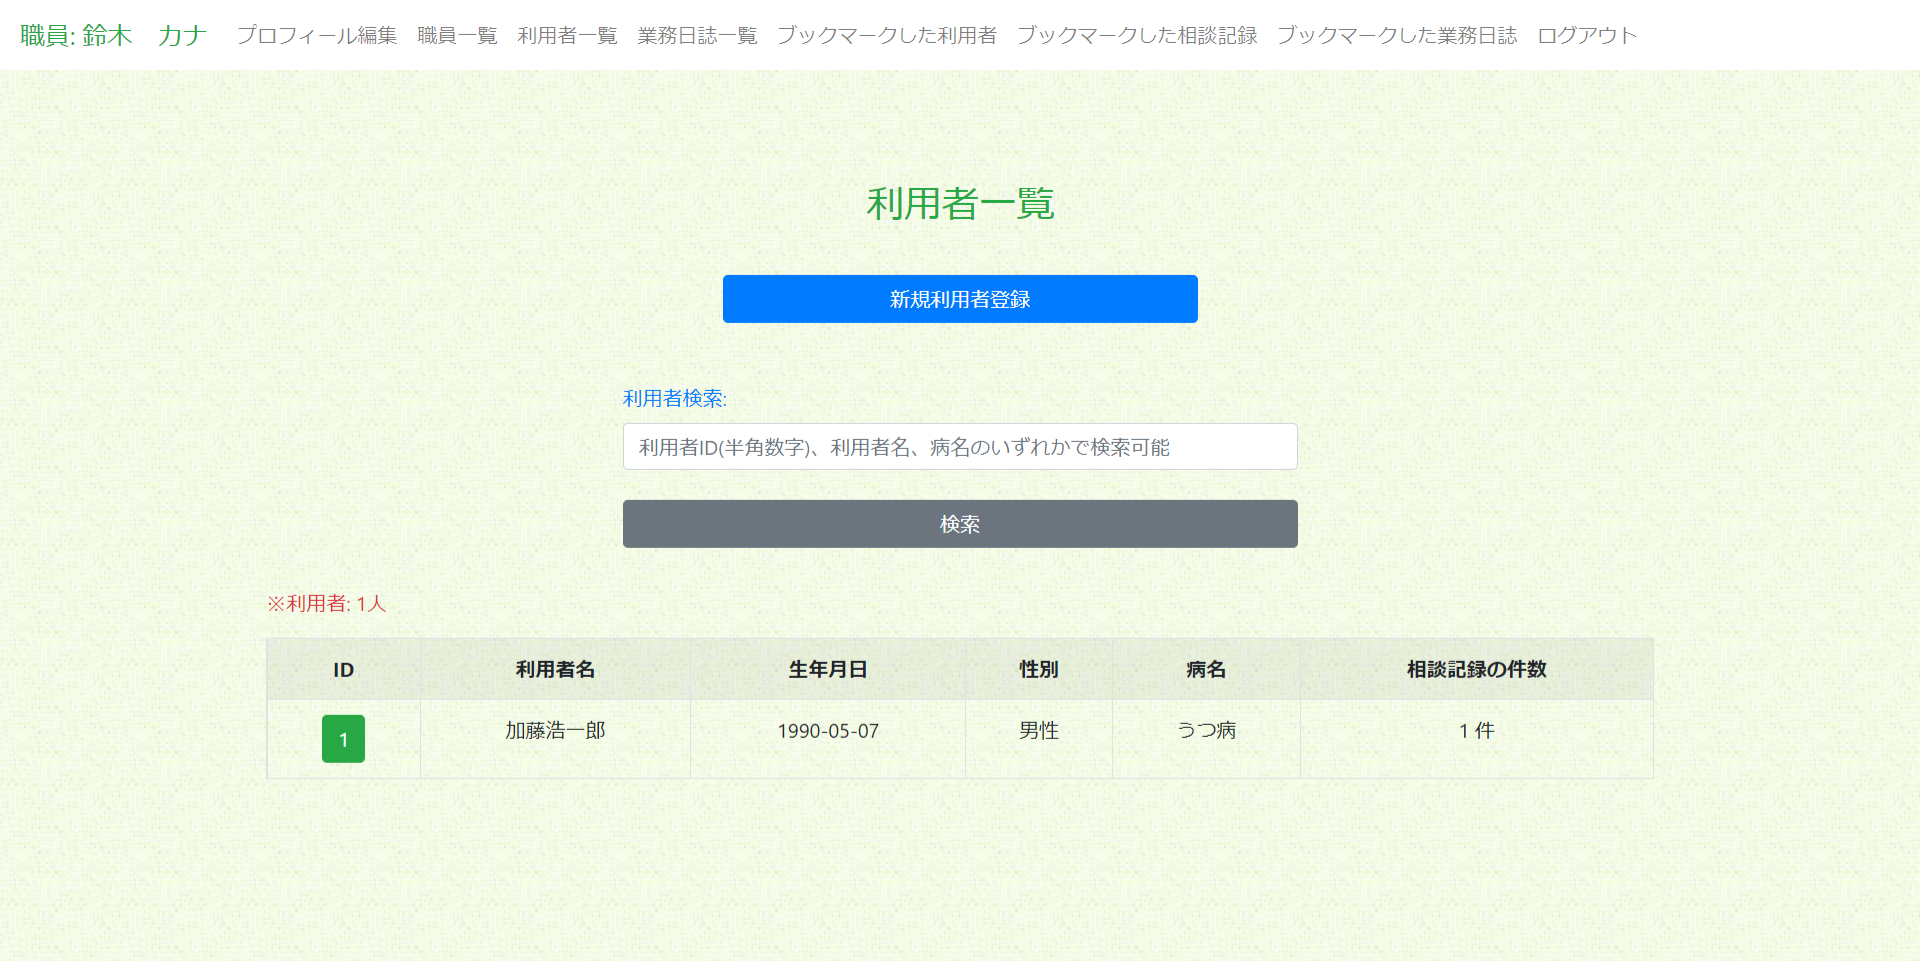
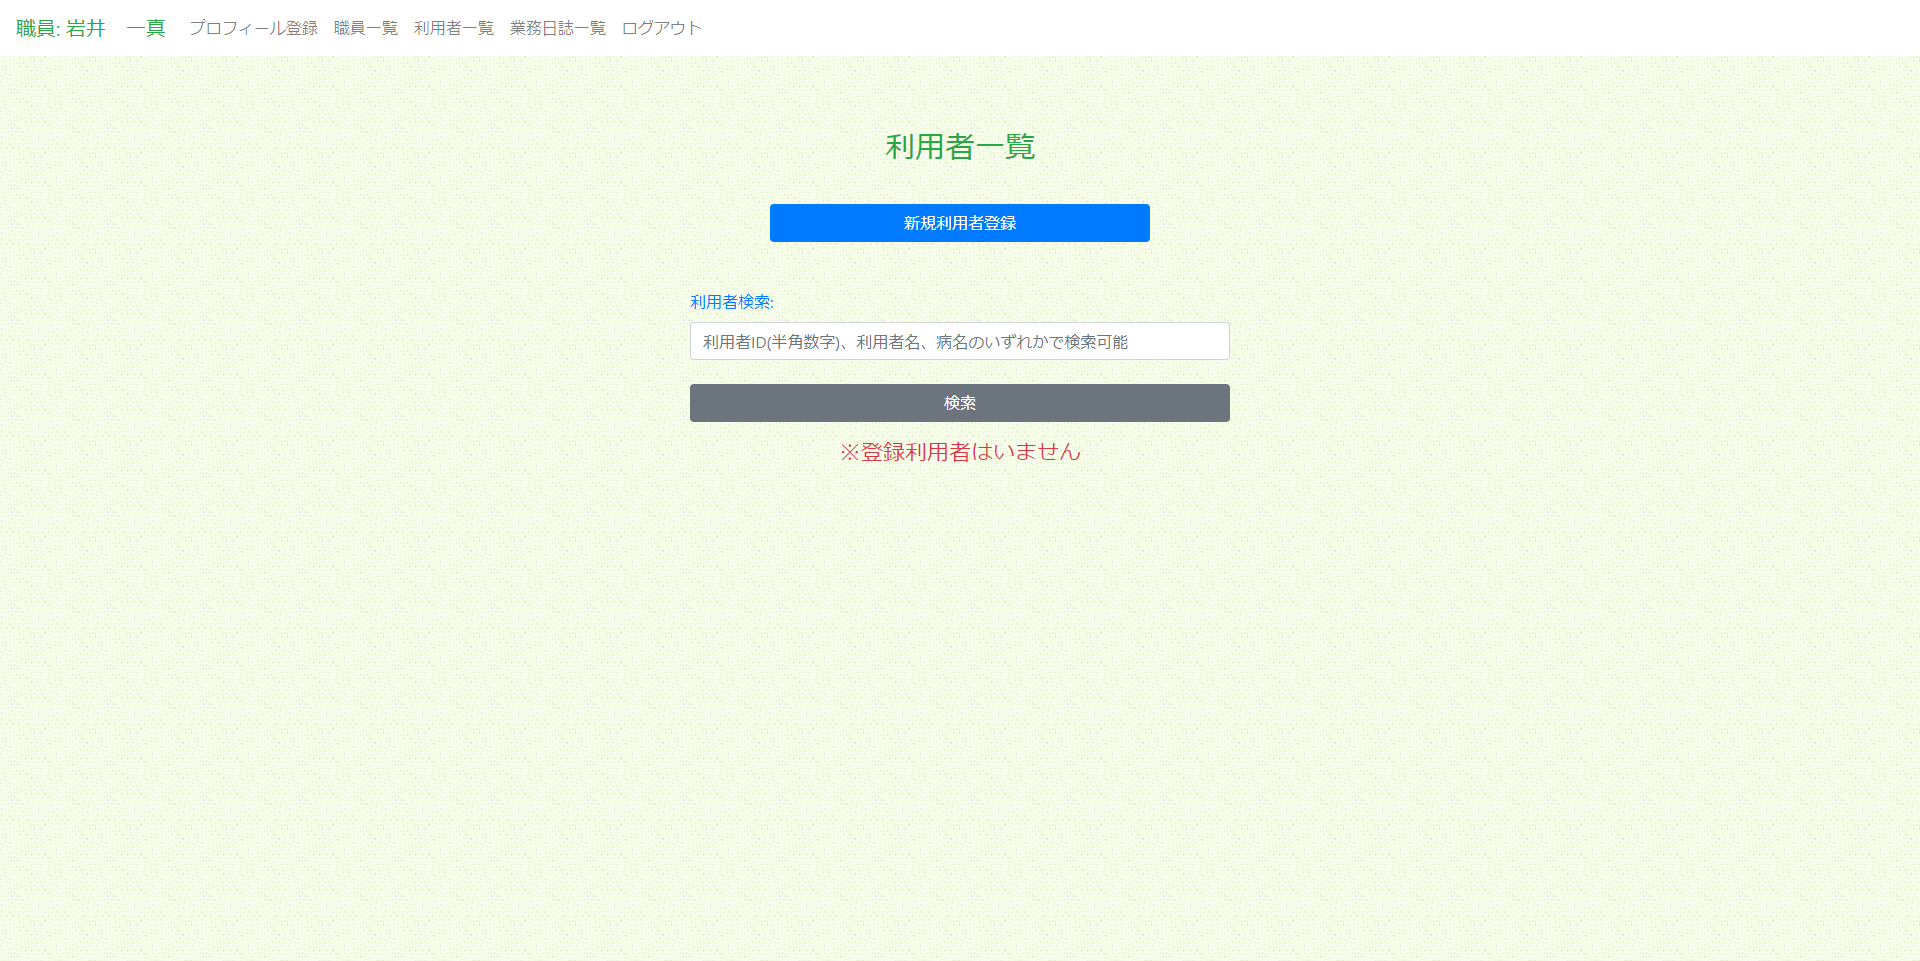
紹介文ブラッシュアップ、まだデーターベース図は作成中

diff --git a/readme.md b/readme.md
@@ -1,19 +1,17 @@
 # 精神障害者向けの相談記録アプリ
 
 ## 1. このアプリの概要
-このアプリは、私が精神保健福祉士として精神科病院、地域の就労支援事業所や地域活動支援センターで勤務した経験を踏まえて構想し、
-開発した精神障害者の地域での相談支援を想定したアプリです。具体的には、事務作業(日々の相談記録作成など)を効率化し、業務の生産性を高め、
-現場の職員が人の力でしかできない仕事(利用者の支援に関する会議、自己研鑽のための研修・出張への積極的な参加など)に注力できるようにするためのものです。
-アプリの内容としては、現場の職員がこのアプリにログインし、日々新たに関わる利用者を登録し、面談や関係機関(精神科病院、役所の生活保護担当、
-ヘルパーなど)とのケース会議などの記録を書いて登録していく流れになっています。また、日々の業務を記録する業務日誌のコンテンツもあります。
-これらの一連の業務を重ねる中で、日々データが増えていくため、データを迅速に見つけて記録と確認ができるようにするため、
-利用者、相談記録、業務日誌に検索機能、ブックマーク機能を付けております。
-相談記録については、職員同士で相談した支援の方向性や自分用メモのために、コメントを記入できる機能も用意しております。
+これは、私が精神保健福祉士として、精神科病院、地域の就労支援事業所や地域活動支援センターで勤務した経験を踏まえて開発した相談記録アプリです。
+このアプリは、精神障害者の地域での相談支援を行う現場の職員が使うことを想定しています。
+このアプリの目的は、事務作業(日々の相談記録作成など)を効率化し、業務の生産性を高め、利用者の情報共有を円滑化し、現場の職員が人の力でしかできない仕事(利用者の支援に関する会議、自己研鑽のための研修・出張への積極的な参加など)に注力できるようにするためのものです。
+アプリの使い方としては、現場の職員がこのアプリにログインし、日々新たに関わる利用者を登録し、面談や関係機関(精神科病院、役所の生活保護担当、ヘルパーなど)とのケース会議などの記録を書いて登録していくという流れになっています。
+また、日々の業務を記録する業務日誌のコンテンツもあります。
+これらの一連の業務を重ねる中で、日々データが増えていくため、データを迅速に見つけて記録と確認ができるようにするために利用者、相談記録、業務日誌に検索機能とブックマーク機能を付けております。
+相談記録については、職員同士で検討した支援の方向性や自分用メモのために、コメントを記入できる機能も備わっています。
 この業界では、日々、職員が仕事に追われがちになるケースがあり、孤立して仕事をしてまう傾向があり、各事業所の課題の一つとなることが多いです。
 そのため、少しでも職員同士のつながりを作るツールがあればと思い、職員プロフィールを盛り込んでいます。
-このアプリの最大の特徴は、スマートフォンやタブレット端末のレスポンシブデザインにも対応しており、外出先や、在宅でも相談記録が
-手軽に作成できる点です。特に福祉業界では、パソコンどころか未だに紙媒体で利用者のデータを保管しており、
-職場の事務所に行かなければ事務作業ができない事業所が多くあります。
+このアプリの最大の特徴は、スマートフォンやタブレット端末のレスポンシブデザインにも対応しており、外出先や、在宅でも相談記録が手軽に作成できる点です。
+特に福祉業界では、パソコンどころか未だに紙媒体で利用者のデータを保管しており、職場の事務所に行かなければ事務作業ができない事業所が多くあります。
 このアプリが、これからのコロナの時代に合わせた障害福祉の分野の働き方を提示するきっかけになればと切に願っております。
 以下、具体的な技術要素をまとめていますのでそちらもご覧いただければ幸いです。
 
@@ -76,16 +74,16 @@
 ![最初の画面](/public/images/sample_1.jpg)
 
 ##### ⓶ログイン後のトップ画面
-![ログイン後のトップ画面(利用者一覧) ](/public/images/)
+![ログイン後のトップ画面(利用者一覧) ](/public/images/sample_2.jpg)
 
 ##### ⓷職員プロフィール
-![職員プロフィール](/public/images/)
+![職員プロフィール](/public/images/sample_3.jpg)
 
 ##### ⓸各利用者の相談記録ページ
-![各利用者の相談記録ページ](/public/images/)
+![各利用者の相談記録ページ](/public/images/sample_4.jpg)
 
 ##### ⓹業務日誌一覧ページ
-![業務日誌一覧ページ](/public/images/)
+![業務日誌一覧ページ](/public/images/sample_5.jpg)
 
 ## 5. このWebアプリケーションを開発した経緯
 
